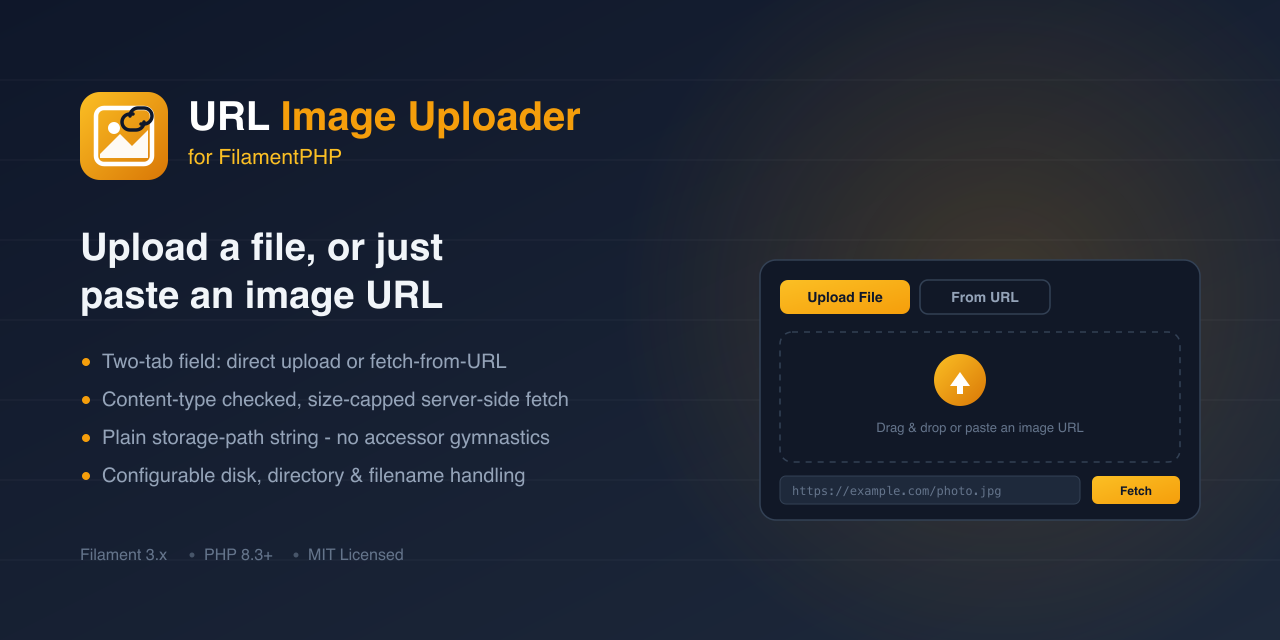
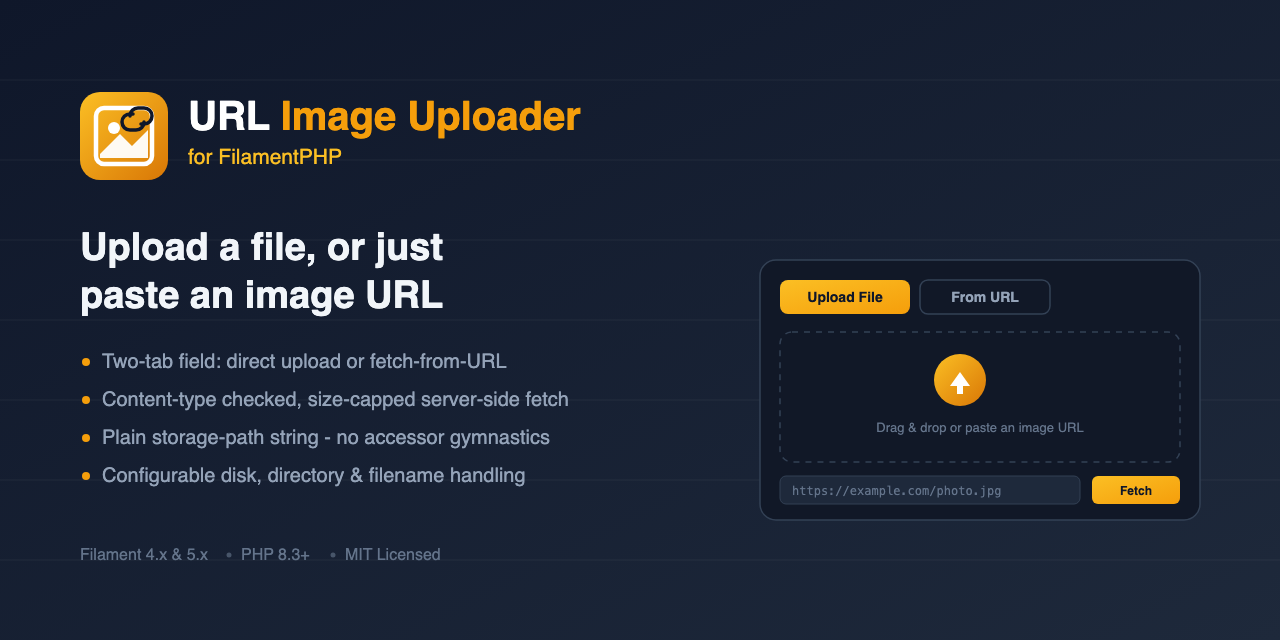
docs: 2.0.0 README, CHANGELOG and art for Filament 4/5
- README: supported-versions table (2.x = Filament 4/5, 1.x = Filament 3),
  install + storage:link, what the URL fetch checks, upgrade notes from
  1.x, UTM-tagged outbound links, the standard Custom Development /
  Community Support block. Dropped the dead devodocs.com docs link (404)
  and the Discord channel deep links.
- CHANGELOG: 2.0.0 entry (date set when tagged).
- SECURITY.md: version table for 2.x/1.x; private reporting via GitHub.
- art: banner, listing banner and thumbnail say Filament 4.x & 5.x; removed
  the translucent amber glow (reads brown on the dark background).

diff --git a/README.md b/README.md
@@ -1,16 +1,38 @@
+<p align="center">
+  <img alt="URL Image Uploader for FilamentPHP: upload a file, or paste an image URL" src="art/banner.png" width="100%">
+</p>
+
 # Filament URL Image Uploader
 
-![URL Image Uploader banner](art/banner.png)
+A Filament form field with two tabs: upload an image file, or paste an image URL and fetch it
+server-side. Either way your model gets a plain storage path string.
 
-A powerful Filament PHP form component that enables seamless image uploads from URLs. Features include image validation, preview functionality, and easy integration with Laravel storage. Perfect for remote image imports, content management, and e-commerce applications built with FilamentPHP.
+[![Latest Version](https://img.shields.io/packagist/v/amjadiqbal/filament-url-image-uploader.svg?style=flat-square)](https://packagist.org/packages/amjadiqbal/filament-url-image-uploader)
+[![PHP Version](https://img.shields.io/packagist/php-v/amjadiqbal/filament-url-image-uploader?style=flat-square)](https://packagist.org/packages/amjadiqbal/filament-url-image-uploader)
+[![Filament](https://img.shields.io/badge/Filament-4.x%20%7C%205.x-FDAE4B?style=flat-square)](https://filamentphp.com/plugins/amjadiqbal-url-image-uploader?utm_source=github&utm_medium=readme&utm_campaign=filament-url-image-uploader)
+[![License](https://img.shields.io/packagist/l/amjadiqbal/filament-url-image-uploader.svg?style=flat-square)](LICENSE)
+
+## Supported versions
+
+| Package | Filament | Laravel | PHP |
+|---|---|---|---|
+| **2.x** | 4.x and 5.x | whatever your Filament version supports (11.28+, 12.x, 13.x) | 8.3+ |
+| 1.x ([`1.x` branch](https://github.com/amjadiqbal/filament-url-image-uploader/tree/1.x)) | 3.x | whatever Filament 3 supports | 8.3+ |
 
 ## Installation
-
-You can install the package via composer:
 
 ```bash
 composer require amjadiqbal/filament-url-image-uploader
 ```
+
+Composer picks the right major for your Filament version. Fetched and uploaded files are stored on
+the `public` disk by default, so make sure it is linked:
+
+```bash
+php artisan storage:link
+```
+
+No panel plugin registration or asset build is needed: the field works in any Filament form.
 
 ## Usage
 
@@ -20,9 +42,10 @@ use AmjadIqbal\FilamentUrlImageUploader\Components\UrlImageUploader;
 UrlImageUploader::make('image')->directory('images');
 ```
 
-The field renders two tabs — upload a file directly, or paste an image URL and fetch it server-side.
-Either way, the value saved to your model attribute is always a plain storage path string (e.g.
-`"images/example.jpg"`), never an array — no accessor/mutator gymnastics required on your model:
+The field renders two tabs: upload a file directly, or paste an image URL and click **Fetch Image**
+to download it server-side. Either way, the value saved to your model attribute is always a plain
+storage path string (e.g. `"images/example.jpg"`), never an array, so no accessor or mutator is
+needed on your model:
 
 ```php
 // database column: image (string, nullable)
@@ -39,10 +62,19 @@ To render the stored image elsewhere in your app, resolve it through the disk yo
 Storage::disk('public')->url($post->image);
 ```
 
+### What the URL fetch checks
+
+- Only `http://` and `https://` URLs are fetched (`file://`, `php://`, `data:` and similar are refused).
+- The download is capped (10 MB by default) and has a 10 second timeout.
+- The downloaded bytes must be an image (checked by content, not by file extension).
+- Fetched files get a random filename prefix, so two URLs with the same basename never overwrite each other.
+
+Each failure shows a Filament notification and stores nothing. A malformed URL left in the URL tab
+also blocks saving with a field error.
+
 ## Configuration
 
 ### Directory
-You can customize the storage directory:
 ```php
 UrlImageUploader::make('image')->directory('custom/path/here');
 ```
@@ -57,19 +89,18 @@ UrlImageUploader::make('image')->disk('s3');
 ```php
 UrlImageUploader::make('image')->preserveFilenames();
 ```
+With this on, a fetched file keeps its original name, and gets a `-1`, `-2`, ... suffix instead of
+overwriting a file that already exists.
 
 ### URL fetch size limit
-The "URL Upload" tab downloads the remote image server-side before validating its content type. By
-default, downloads larger than 10 MB are rejected; adjust it with:
 ```php
 UrlImageUploader::make('image')->maxUrlFetchSize(5 * 1024 * 1024); // 5 MB
 ```
 
 ## Scope
 
-`UrlImageUploader` manages a single image per field. It does not currently support Filament's
-`multiple()` mode — for a gallery of several images, use one `UrlImageUploader` per image, or a
-`Repeater` of them.
+`UrlImageUploader` manages a single image per field. It does not support Filament's `multiple()`
+mode. For a gallery of several images, use a `Repeater` of them.
 
 ### Using it in a Repeater (image gallery)
 
@@ -85,19 +116,28 @@ Repeater::make('gallery')
     ->deletable();
 ```
 
-Each row gets its own instance of the field, so adding, deleting, and reordering rows keeps every
-image with its own row — covered by a dedicated Testbench/Livewire suite
-(`tests/Feature/RepeaterGalleryTest.php`) exercising fresh multi-image upload, a no-op edit-and-save
-across separate page loads, deleting a middle row, reordering, adding a row to an existing gallery,
-and deleting-then-adding (to catch a resurrected "deleted" image).
+Each row gets its own instance of the field, so adding, deleting and reordering rows keeps every
+image with its own row. This is covered by a dedicated test suite
+(`tests/Feature/RepeaterGalleryTest.php`).
 
 **Gotcha:** while a row is being edited, its live state is the field's internal `{path, url}`
-shape, not the flat string your model attribute ends up with — that flat string only exists after
-dehydration. If you add an `itemLabel()` (or a header) that reads the row's image value directly,
-e.g. `fn (array $state) => $state['image']`, it will receive that nested array while the form is
-open and throw a type error the moment you type-hint a `string` return. Read
-`$state['image']['path'] ?? null` (an array) if you need a label from it, or avoid keying the label
-off this field at all.
+shape, not the flat string your model attribute ends up with. If you add an `itemLabel()` that reads
+the row's image value, read `$state['image']['path'] ?? null` (an array), or don't key the label off
+this field at all.
+
+## Upgrading from 1.x (Filament 3)
+
+Upgrade Filament itself first (see Filament's
+[upgrade guide](https://filamentphp.com/docs/4.x/upgrade-guide?utm_source=github&utm_medium=readme&utm_campaign=filament-url-image-uploader)),
+then:
+
+```bash
+composer require amjadiqbal/filament-url-image-uploader:^2.0
+```
+
+The field's PHP API (`make()`, `directory()`, `disk()`, `preserveFilenames()`, `maxUrlFetchSize()`)
+and the stored value are unchanged, so your forms and data need no changes. Published translations
+still apply.
 
 ## Translations
 
@@ -110,58 +150,44 @@ php artisan vendor:publish --tag="filament-url-image-uploader-translations"
 ## Testing
 
 ```bash
-composer test      # PHPUnit, via Orchestra Testbench
-composer analyse    # Larastan/PHPStan (level 5)
-composer format     # Laravel Pint
+composer test         # PHPUnit, via Orchestra Testbench
+composer analyse      # Larastan/PHPStan (level 5)
+composer format       # Laravel Pint
+scripts/ci-local.sh   # all of the above on PHP 8.3 and 8.4, against Filament 5 and Filament 4
 ```
 
-## Support
-### Documentation
-- [Full Documentation](https://devodocs.com/laravel/filament-url-image-uploader)
-- API Reference
-- Examples & Tutorials
-
-### Community
-- Join our [Discord Community](https://discord.com/channels/1352854772859932702/1352854916690874388) for discussions
-- Report issues on [GitHub](https://github.com/amjadiqbal/filament-url-image-uploader/issues)
-
-### Professional Support
-Need expert help? 
-[Hire me on Upwork](https://www.upwork.com/freelancers/amjadkhatri)  for:
-
-- Custom implementations
-- Feature development
-- Technical consulting
-- Priority support
-
 ## Changelog
-Please see [CHANGELOG.md](https://github.com/AmjadIqbal/filament-url-image-uploader/blob/main/CHANGELOG.md) for more information on what has changed recently.
+
+Please see [CHANGELOG.md](CHANGELOG.md) for what changed in each release.
 
 ## Security Vulnerabilities
-If you discover a security vulnerability, please report it in our [Security Room](https://discord.com/channels/1352854772859932702/1352854916690874388) on Discord. All security vulnerabilities will be promptly addressed.
+
+Please report security issues privately through
+[GitHub's private vulnerability reporting](https://github.com/amjadiqbal/filament-url-image-uploader/security/advisories/new).
+See [SECURITY.md](SECURITY.md).
 
 ## Contributing
 
-We welcome contributions!
-
-### Contributors
+Contributions are welcome. See [CONTRIBUTING.md](CONTRIBUTING.md) (CI for this repo runs locally).
 
 <a href="https://github.com/amjadiqbal/filament-url-image-uploader/graphs/contributors">
   <img src="https://contrib.rocks/image?repo=amjadiqbal/filament-url-image-uploader" />
 </a>
 
-Made with [contrib.rocks](https://contrib.rocks).
-
 ### Custom Development
-[Hire me on Upwork](https://www.upwork.com/freelancers/amjadkhatri) for:
+[Hire me on Upwork](https://www.upwork.com/freelancers/amjadkhatri?utm_source=github&utm_medium=readme&utm_campaign=filament-url-image-uploader) for:
 - Package integration
 - Custom feature development
 - Technical consultation
 - Project implementation
 
 ### Community Support
-- [Discord Community](https://discord.com/channels/1352854772859932702/1352854916690874388)
-- [Documentation](https://devodocs.com/laravel/filament-url-image-uploader)
+- [Discord](https://discord.com/users/412244229520359434)
+- [Filament plugin page](https://filamentphp.com/plugins/amjadiqbal-url-image-uploader?utm_source=github&utm_medium=readme&utm_campaign=filament-url-image-uploader)
 - [GitHub Issues](https://github.com/amjadiqbal/filament-url-image-uploader/issues)
 
-For priority support and enterprise solutions, please reach out via Upwork for direct assistance.
+For priority support and enterprise solutions, please reach out via [Upwork](https://www.upwork.com/freelancers/amjadkhatri?utm_source=github&utm_medium=readme&utm_campaign=filament-url-image-uploader) for direct assistance.
+
+## License
+
+MIT. See [LICENSE](LICENSE).

diff --git a/CHANGELOG.md b/CHANGELOG.md
@@ -2,6 +2,41 @@
 
 All notable changes to `filament-url-image-uploader` will be documented in this file.
 
+## 2.0.0 - Unreleased
+
+Filament 4 and 5 support. **Filament 3 is no longer supported by 2.x**: Filament 3 users stay on
+1.x (`^1.4`, maintained on the `1.x` branch). The field's PHP API and the stored value are
+unchanged, so upgrading needs no changes to forms or data.
+
+### Changed
+- `filament/filament` constraint is now `^4.0|^5.0` (was `^3.0`). PHP floor stays `^8.3`.
+- Ported to the Filament 4/5 schema API: `Tabs`, `Tab` and `Actions` from `Filament\Schemas`,
+  `Action` from `Filament\Actions`, `Get`/`Set` from `Filament\Schemas\Components\Utilities`,
+  `getChildSchema()` instead of `getChildComponentContainer()`.
+- The upload/URL tabs are registered with `schema()` in `setUp()`. Overriding
+  `getChildComponents()`, as 1.x did, still renders on Filament 4+ but the tabs are never
+  hydrated, validated or saved (an uploaded file was stored as its temporary path).
+- The Fetch Image action reads the URL with `$get('url')`.
+
+### Fixed
+- **Preview styling on Filament 4/5.** Panels ship a prebuilt stylesheet with only Filament's own
+  Tailwind classes, so the preview's utility classes were missing (full-width image, hover label
+  always visible). The preview now uses a small scoped stylesheet; no asset build is needed.
+- **Unsaved uploads previewed as a broken image.** A file picked in the upload tab but not yet
+  saved was previewed through `Storage::url()` of its temporary path. It now uses Livewire's signed
+  temporary URL.
+- **A new, empty Repeater row previewed the parent record's image** (also present in 1.x). The
+  preview fell back to `$record->{name}`, which inside a Repeater is the parent model's same-named
+  column, and a removed image kept showing. The fallback is removed; the stored value is already
+  hydrated into the field.
+
+### Tests
+- Fixtures use `HasSchemas`/`HasActions`; new `FetchFromUrlTest` drives the Fetch Image action
+  against a local HTTP server (image, non-image, 404, invalid URL, `file://`, field error).
+- `scripts/ci-local.sh` runs PHPStan and PHPUnit on PHP 8.3 and 8.4 against both Filament 5 (lock
+  file) and Filament 4.
+- Verified in real Filament 4.15.2 and 5.10.2 panels (Laravel 12) installed from `git archive`.
+
 ## 1.4.0 - 2026-09-19
 
 ### Fixed

diff --git a/SECURITY.md b/SECURITY.md
@@ -4,18 +4,19 @@
 
 Only the latest tagged release receives security fixes.
 
-| Version | Supported |
-| ------- | --------- |
-| 1.1.x   | ✅        |
-| < 1.1   | ❌        |
+| Version | Filament | Supported |
+| ------- | -------- | --------- |
+| 2.x     | 4.x, 5.x | ✅        |
+| 1.4.x   | 3.x      | ✅ (security fixes only, `1.x` branch) |
+| < 1.4   | 3.x      | ❌        |
 
 ## Reporting a Vulnerability
 
 If you discover a security vulnerability in this package, please report it privately rather than
 opening a public GitHub issue:
 
-- Post in the [Security Room on Discord](https://discord.com/channels/1352854772859932702/1352854916690874388), or
-- Use [GitHub's private vulnerability reporting](https://github.com/amjadiqbal/filament-url-image-uploader/security/advisories/new) for this repository.
+- Use [GitHub's private vulnerability reporting](https://github.com/amjadiqbal/filament-url-image-uploader/security/advisories/new) for this repository, or
+- Message the maintainer [on Discord](https://discord.com/users/412244229520359434).
 
 Please include a description of the issue, steps to reproduce, and the affected version. All
 reports will be acknowledged and addressed as quickly as possible; a fix will be released and

diff --git a/CONTRIBUTING.md b/CONTRIBUTING.md
@@ -10,11 +10,13 @@ dependency bumps are manual PRs that run the same local CI.
 Every PR runs the same checks on the developer's machine and pastes the summary block into its description:
 
 ```bash
-scripts/ci-local.sh                    # composer install, PHPStan and PHPUnit on PHP 8.3 and 8.4
-PHP_VERSIONS=8.3 scripts/ci-local.sh   # one PHP version only
+scripts/ci-local.sh                                      # PHP 8.3 and 8.4, each against Filament 5 and 4
+PHP_VERSIONS=8.3 FILAMENT_VERSIONS=5 scripts/ci-local.sh   # one PHP version, one Filament major
 ```
 
 It finds `php8.3`/`php8.4` on PATH or Homebrew's `php@8.x` and ends with one `pass`/`FAIL` line per step.
+Filament 5 runs from the committed lock file; Filament 4 runs in a throwaway clone of HEAD with
+`filament/filament` narrowed to `^4.0` and a fresh `composer update`, so commit before running it.
 
 `composer.json` pins `config.platform.php` to 8.3, the package's floor, so `composer update` on a newer PHP can't
 lock dependencies that 8.3 can't install.
